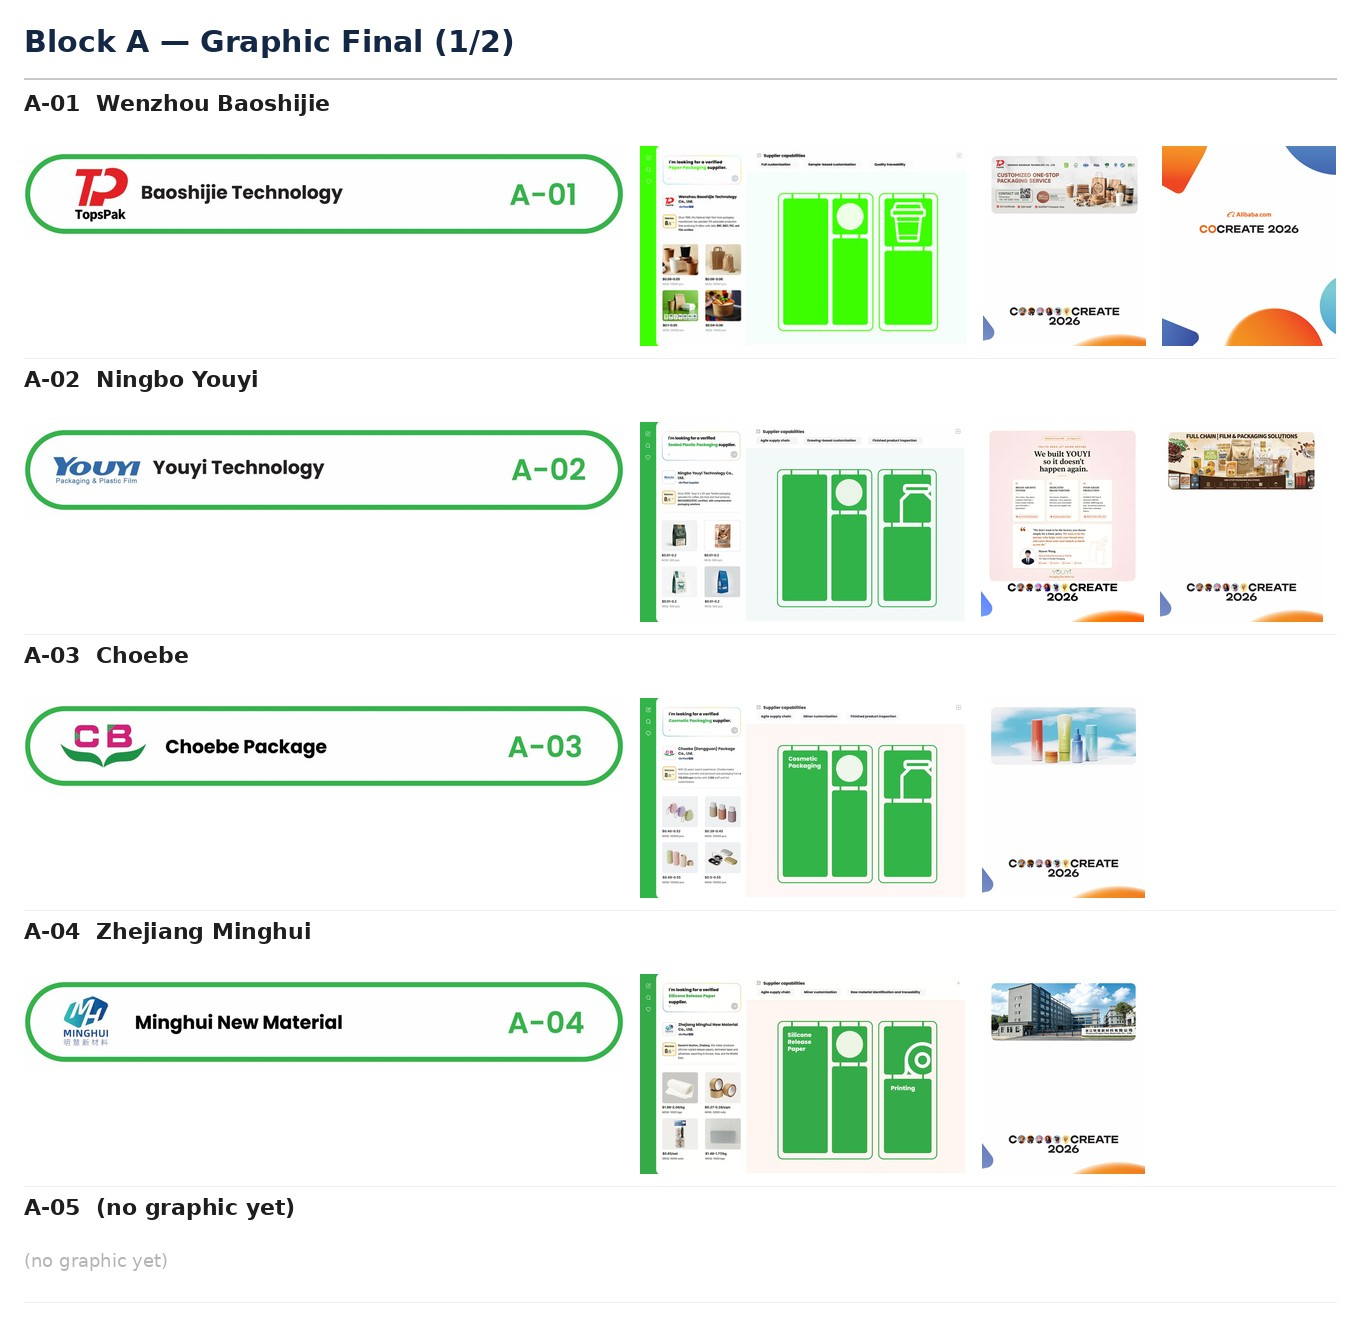
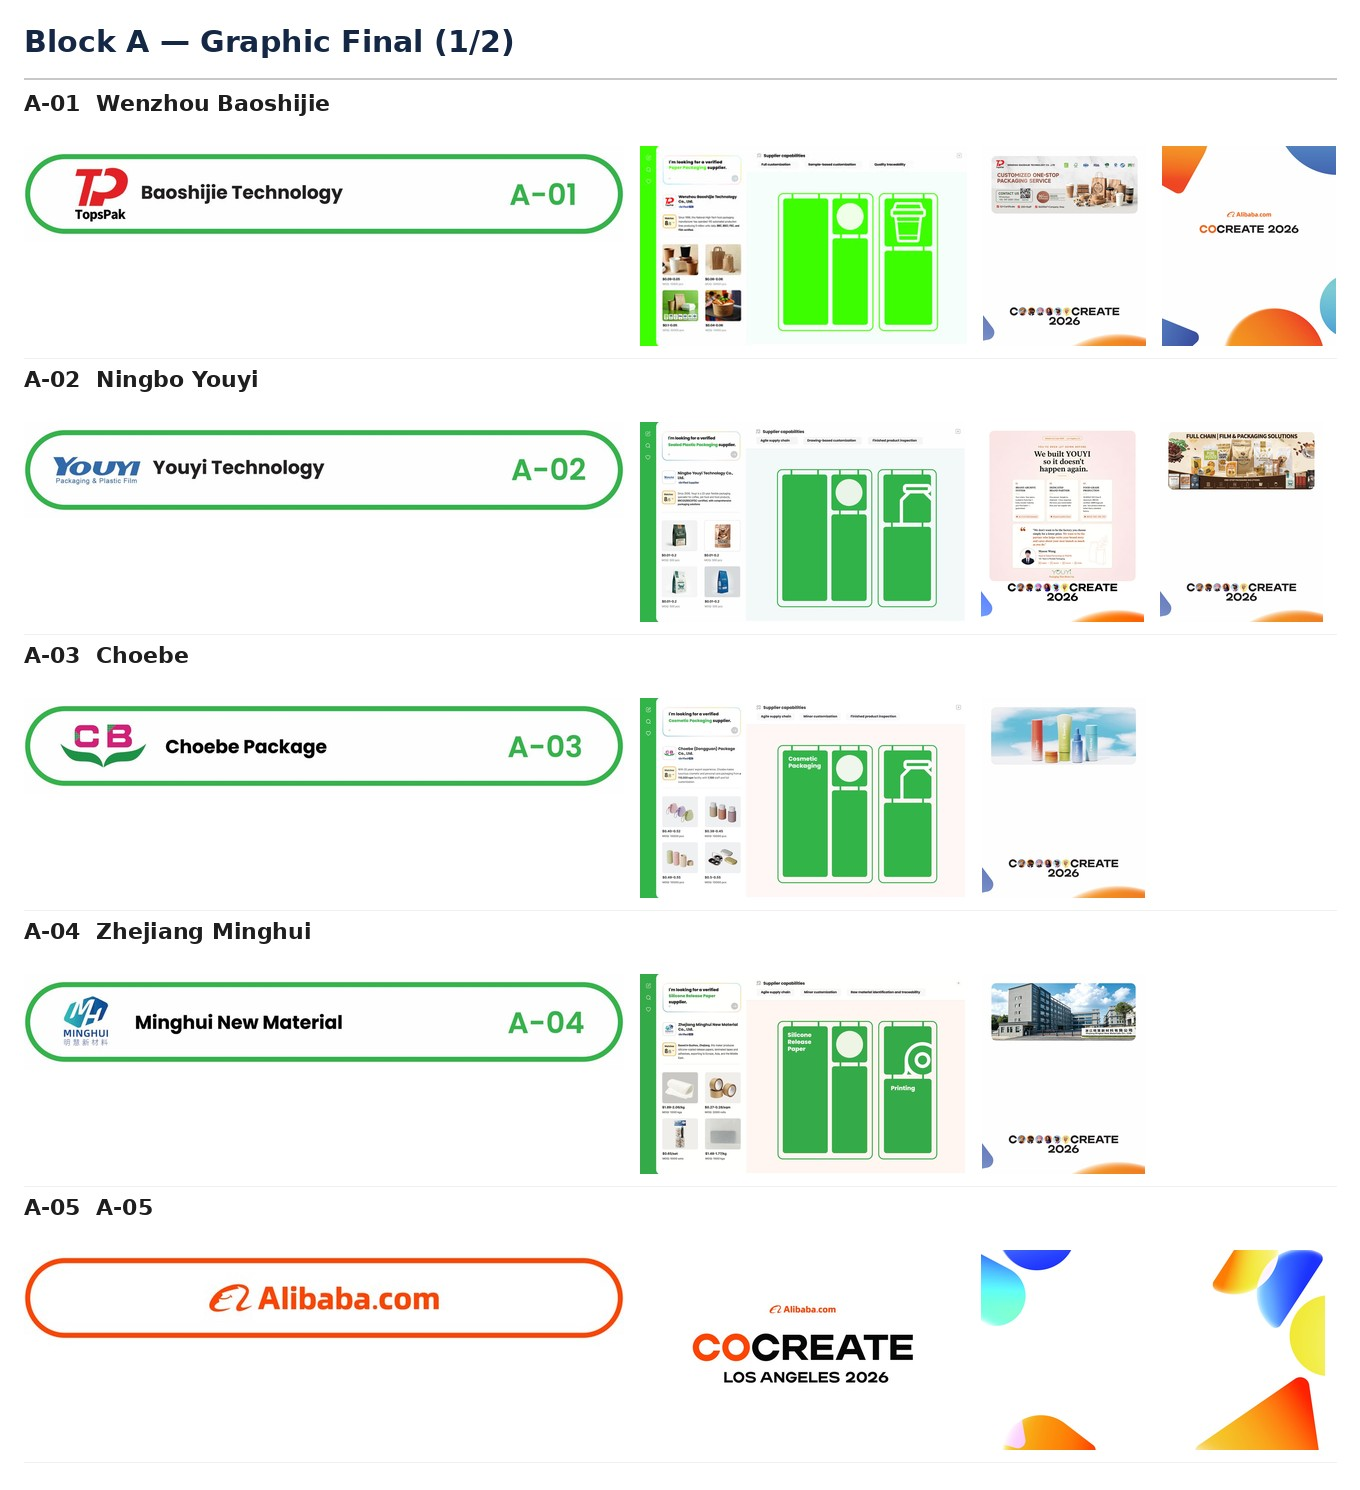
A-05 補 4 張圖（新增 HEADER + 補 BK-WALL/SIDE-L/SIDE-R）+ 重生成 graphic final page 1

diff --git a/script.js b/script.js
@@ -4,7 +4,7 @@
 
 const TODAY = (() => { const d = new Date(); d.setHours(0, 0, 0, 0); return d; })();
 const SHOW_START = new Date('2026-09-09');
-const IMG_CACHE_BUST = '?v=20260827b';  // bump to bust image CDN cache
+const IMG_CACHE_BUST = '?v=20260827c';  // bump to bust image CDN cache
 
 const ACCESS_LIST = {
   'nickie@nichemusa.com': 'Nickie Wang',
@@ -463,9 +463,10 @@ GRAPHICS: [
     { item: 'A-04-HEADER', size: '1600×250mm', material: 'PVC', qty: 1, status: 'pending', thumb: 'assets/graphics/a-04-header.jpg' },
     { item: 'A-04-BK-WALL', size: '3942×2409mm', material: 'BO Fabric', qty: 1, status: 'pending', thumb: 'assets/graphics/a-04-bk-wall.jpg' },
     { item: 'A-04-SIDE-L', size: '1962×2409mm', material: 'BO Fabric', qty: 1, status: 'approved', thumb: 'assets/graphics/a-04-side-l.jpg' },
-    { item: 'A-05-BK-WALL', size: '3928×2409mm', material: 'BO Fabric', qty: 1, status: 'pending', thumb: '' },
-    { item: 'A-05-SIDE-L', size: '1982×2409mm', material: 'BO Fabric', qty: 1, status: 'pending', thumb: '' },
-    { item: 'A-05-SIDE-R', size: '1962×2409mm', material: 'BO Fabric', qty: 1, status: 'pending', thumb: '' },
+    { item: 'A-05-HEADER', size: '1600×250mm', material: 'PVC', qty: 1, status: 'pending', thumb: 'assets/graphics/a-05-header.jpg' },
+    { item: 'A-05-BK-WALL', size: '3928×2409mm', material: 'BO Fabric', qty: 1, status: 'pending', thumb: 'assets/graphics/a-05-bk-wall.jpg' },
+    { item: 'A-05-SIDE-L', size: '1982×2409mm', material: 'BO Fabric', qty: 1, status: 'pending', thumb: 'assets/graphics/a-05-side-l.jpg' },
+    { item: 'A-05-SIDE-R', size: '1962×2409mm', material: 'BO Fabric', qty: 1, status: 'pending', thumb: 'assets/graphics/a-05-side-r.jpg' },
     { item: 'A-06-HEADER', size: '1600×250mm', material: 'PVC', qty: 1, status: 'pending', thumb: 'assets/graphics/a-06-header.jpg' },
     { item: 'A-06-BK-WALL', size: '3942×2409mm', material: 'BO Fabric', qty: 1, status: 'approved', thumb: 'assets/graphics/a-06-bk-wall.jpg' },
     { item: 'A-06-SIDE-L', size: '1962×2409mm', material: 'BO Fabric', qty: 1, status: 'approved', thumb: 'assets/graphics/a-06-side-l.jpg' },
@@ -729,7 +730,7 @@ const CONTENT_KEY = 'cocreate2026_content';
 const CONTENT_VER_KEY = 'cocreate2026_content_ver';
 // Bump this whenever DEFAULT_DATA is updated in a way that must reach viewers.
 // A saved snapshot from an older version is discarded so the new defaults show through.
-const CONTENT_VERSION = 130;
+const CONTENT_VERSION = 131;
 
 // ---------- Firebase (graphics 多人同步) ----------
 const FB_CONFIG = {

diff --git a/index.html b/index.html
@@ -258,7 +258,7 @@
 
 <script src="https://www.gstatic.com/firebasejs/10.12.0/firebase-app-compat.js"></script>
 <script src="https://www.gstatic.com/firebasejs/10.12.0/firebase-firestore-compat.js"></script>
-<script src="script.js?v=287&t=20260826"></script>
+<script src="script.js?v=288&t=20260826"></script>
 <script>
 var FP_PAGES = ['assets/floor-plan-zone.jpg', 'assets/floor-plan-detail.jpg', 'assets/sponsor-power-plan.jpg'];
 var FP_CAPTIONS = ['Full Floor Plan (全場平面圖)', 'Floor Plan Detail (平面圖明細)', 'Sponsor Power Plan (Sponsor 電力配置)'];
